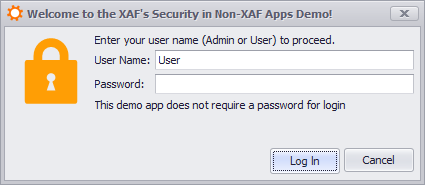
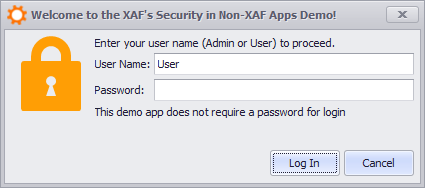
Update login form and image

diff --git a/WinForms/CS/LoginForm.Designer.cs b/WinForms/CS/LoginForm.Designer.cs
@@ -66,13 +66,12 @@
             // 
             // buttonLogin
             // 
-            this.buttonLogin.Appearance.Font = new System.Drawing.Font("Microsoft Sans Serif", 8.25F, System.Drawing.FontStyle.Regular, System.Drawing.GraphicsUnit.Point, ((byte)(0)));
-            this.buttonLogin.Appearance.Options.UseFont = true;
-            this.buttonLogin.Location = new System.Drawing.Point(265, 121);
-            this.buttonLogin.MaximumSize = new System.Drawing.Size(70, 26);
-            this.buttonLogin.MinimumSize = new System.Drawing.Size(70, 26);
+            this.buttonLogin.Location = new System.Drawing.Point(309, 149);
+            this.buttonLogin.Margin = new System.Windows.Forms.Padding(2);
+            this.buttonLogin.MaximumSize = new System.Drawing.Size(82, 32);
+            this.buttonLogin.MinimumSize = new System.Drawing.Size(82, 32);
             this.buttonLogin.Name = "buttonLogin";
-            this.buttonLogin.Size = new System.Drawing.Size(70, 26);
+            this.buttonLogin.Size = new System.Drawing.Size(82, 32);
             this.buttonLogin.StyleController = this.layoutControl1;
             this.buttonLogin.TabIndex = 0;
             this.buttonLogin.Text = "Log In";
@@ -88,21 +87,22 @@
             this.layoutControl1.Controls.Add(this.userNameEdit);
             this.layoutControl1.Dock = System.Windows.Forms.DockStyle.Fill;
             this.layoutControl1.Location = new System.Drawing.Point(0, 0);
+            this.layoutControl1.Margin = new System.Windows.Forms.Padding(3, 4, 3, 4);
             this.layoutControl1.Name = "layoutControl1";
             this.layoutControl1.OptionsCustomizationForm.DesignTimeCustomizationFormPositionAndSize = new System.Drawing.Rectangle(414, 240, 298, 800);
             this.layoutControl1.OptionsFocus.EnableAutoTabOrder = false;
             this.layoutControl1.Root = this.Root;
-            this.layoutControl1.Size = new System.Drawing.Size(415, 153);
+            this.layoutControl1.Size = new System.Drawing.Size(484, 188);
             this.layoutControl1.TabIndex = 5;
             this.layoutControl1.Text = "layoutControl1";
             // 
             // pictureEditImage
             // 
             this.pictureEditImage.EditValue = ((object)(resources.GetObject("pictureEditImage.EditValue")));
-            this.pictureEditImage.Location = new System.Drawing.Point(6, 6);
+            this.pictureEditImage.Location = new System.Drawing.Point(7, 7);
             this.pictureEditImage.Margin = new System.Windows.Forms.Padding(2);
-            this.pictureEditImage.MaximumSize = new System.Drawing.Size(80, 80);
-            this.pictureEditImage.MinimumSize = new System.Drawing.Size(80, 80);
+            this.pictureEditImage.MaximumSize = new System.Drawing.Size(93, 98);
+            this.pictureEditImage.MinimumSize = new System.Drawing.Size(93, 98);
             this.pictureEditImage.Name = "pictureEditImage";
             this.pictureEditImage.Properties.AllowFocused = false;
             this.pictureEditImage.Properties.Appearance.BackColor = System.Drawing.Color.Transparent;
@@ -110,19 +110,19 @@
             this.pictureEditImage.Properties.BorderStyle = DevExpress.XtraEditors.Controls.BorderStyles.NoBorder;
             this.pictureEditImage.Properties.ShowCameraMenuItem = DevExpress.XtraEditors.Controls.CameraMenuItemVisibility.Auto;
             this.pictureEditImage.Properties.ShowMenu = false;
-            this.pictureEditImage.Properties.SvgImageSize = new System.Drawing.Size(70, 70);
-            this.pictureEditImage.Size = new System.Drawing.Size(80, 80);
+            this.pictureEditImage.Properties.SvgImageSize = new System.Drawing.Size(64, 64);
+            this.pictureEditImage.Size = new System.Drawing.Size(93, 98);
             this.pictureEditImage.StyleController = this.layoutControl1;
             this.pictureEditImage.TabIndex = 7;
             // 
             // cancelButton
             // 
-            this.cancelButton.Location = new System.Drawing.Point(339, 121);
+            this.cancelButton.Location = new System.Drawing.Point(395, 149);
             this.cancelButton.Margin = new System.Windows.Forms.Padding(2);
-            this.cancelButton.MaximumSize = new System.Drawing.Size(70, 24);
-            this.cancelButton.MinimumSize = new System.Drawing.Size(70, 24);
+            this.cancelButton.MaximumSize = new System.Drawing.Size(82, 32);
+            this.cancelButton.MinimumSize = new System.Drawing.Size(82, 32);
             this.cancelButton.Name = "cancelButton";
-            this.cancelButton.Size = new System.Drawing.Size(70, 24);
+            this.cancelButton.Size = new System.Drawing.Size(82, 32);
             this.cancelButton.StyleController = this.layoutControl1;
             this.cancelButton.TabIndex = 1;
             this.cancelButton.Text = "Cancel";
@@ -130,19 +130,21 @@
             // 
             // passwordEdit
             // 
-            this.passwordEdit.Location = new System.Drawing.Point(150, 47);
+            this.passwordEdit.Location = new System.Drawing.Point(177, 53);
+            this.passwordEdit.Margin = new System.Windows.Forms.Padding(3, 4, 3, 4);
             this.passwordEdit.Name = "passwordEdit";
             this.passwordEdit.Properties.PasswordChar = '*';
-            this.passwordEdit.Size = new System.Drawing.Size(259, 20);
+            this.passwordEdit.Size = new System.Drawing.Size(300, 22);
             this.passwordEdit.StyleController = this.layoutControl1;
             this.passwordEdit.TabIndex = 3;
             // 
             // userNameEdit
             // 
             this.dxErrorProvider1.SetIconAlignment(this.userNameEdit, System.Windows.Forms.ErrorIconAlignment.MiddleRight);
-            this.userNameEdit.Location = new System.Drawing.Point(150, 23);
+            this.userNameEdit.Location = new System.Drawing.Point(177, 27);
+            this.userNameEdit.Margin = new System.Windows.Forms.Padding(3, 4, 3, 4);
             this.userNameEdit.Name = "userNameEdit";
-            this.userNameEdit.Size = new System.Drawing.Size(259, 20);
+            this.userNameEdit.Size = new System.Drawing.Size(300, 22);
             this.userNameEdit.StyleController = this.layoutControl1;
             this.userNameEdit.TabIndex = 2;
             this.userNameEdit.Validating += new System.ComponentModel.CancelEventHandler(this.UserNameEdit_Validating);
@@ -161,55 +163,55 @@
             this.layoutControlGroupButtons});
             this.Root.Name = "Root";
             this.Root.OptionsItemText.TextToControlDistance = 4;
-            this.Root.Padding = new DevExpress.XtraLayout.Utils.Padding(4, 4, 4, 4);
-            this.Root.Size = new System.Drawing.Size(415, 153);
+            this.Root.Padding = new DevExpress.XtraLayout.Utils.Padding(5, 5, 5, 5);
+            this.Root.Size = new System.Drawing.Size(484, 188);
             this.Root.TextVisible = false;
             // 
             // layoutControlItemUserName
             // 
             this.layoutControlItemUserName.Control = this.userNameEdit;
             this.layoutControlItemUserName.CustomizationFormText = "User Name";
-            this.layoutControlItemUserName.Location = new System.Drawing.Point(84, 17);
+            this.layoutControlItemUserName.Location = new System.Drawing.Point(97, 20);
             this.layoutControlItemUserName.Name = "layoutControlItemUserName";
-            this.layoutControlItemUserName.Size = new System.Drawing.Size(323, 24);
+            this.layoutControlItemUserName.Size = new System.Drawing.Size(377, 26);
             this.layoutControlItemUserName.Text = "User Name:";
-            this.layoutControlItemUserName.TextSize = new System.Drawing.Size(56, 13);
+            this.layoutControlItemUserName.TextSize = new System.Drawing.Size(68, 16);
             // 
             // layoutControlItemPassword
             // 
             this.layoutControlItemPassword.Control = this.passwordEdit;
-            this.layoutControlItemPassword.Location = new System.Drawing.Point(84, 41);
+            this.layoutControlItemPassword.Location = new System.Drawing.Point(97, 46);
             this.layoutControlItemPassword.Name = "layoutControlItemPassword";
-            this.layoutControlItemPassword.Size = new System.Drawing.Size(323, 24);
+            this.layoutControlItemPassword.Size = new System.Drawing.Size(377, 26);
             this.layoutControlItemPassword.Text = "Password:";
-            this.layoutControlItemPassword.TextSize = new System.Drawing.Size(56, 13);
+            this.layoutControlItemPassword.TextSize = new System.Drawing.Size(68, 16);
             // 
             // simpleLabelItem1
             // 
             this.simpleLabelItem1.AllowHotTrack = false;
-            this.simpleLabelItem1.Location = new System.Drawing.Point(84, 65);
+            this.simpleLabelItem1.Location = new System.Drawing.Point(97, 72);
             this.simpleLabelItem1.Name = "simpleLabelItem1";
-            this.simpleLabelItem1.Size = new System.Drawing.Size(323, 17);
+            this.simpleLabelItem1.Size = new System.Drawing.Size(377, 20);
             this.simpleLabelItem1.Text = "This demo app does not require a password for login";
             this.simpleLabelItem1.TextAlignMode = DevExpress.XtraLayout.TextAlignModeItem.AutoSize;
-            this.simpleLabelItem1.TextSize = new System.Drawing.Size(251, 13);
+            this.simpleLabelItem1.TextSize = new System.Drawing.Size(304, 16);
             // 
             // simpleLabelItem2
             // 
             this.simpleLabelItem2.AllowHotTrack = false;
-            this.simpleLabelItem2.Location = new System.Drawing.Point(84, 0);
+            this.simpleLabelItem2.Location = new System.Drawing.Point(97, 0);
             this.simpleLabelItem2.Name = "simpleLabelItem2";
-            this.simpleLabelItem2.Size = new System.Drawing.Size(323, 17);
+            this.simpleLabelItem2.Size = new System.Drawing.Size(377, 20);
             this.simpleLabelItem2.Text = "Enter your user name (Admin or User) to proceed.";
             this.simpleLabelItem2.TextAlignMode = DevExpress.XtraLayout.TextAlignModeItem.AutoSize;
-            this.simpleLabelItem2.TextSize = new System.Drawing.Size(241, 13);
+            this.simpleLabelItem2.TextSize = new System.Drawing.Size(289, 16);
             // 
             // emptySpaceItem2
             // 
             this.emptySpaceItem2.AllowHotTrack = false;
-            this.emptySpaceItem2.Location = new System.Drawing.Point(84, 82);
+            this.emptySpaceItem2.Location = new System.Drawing.Point(97, 92);
             this.emptySpaceItem2.Name = "emptySpaceItem2";
-            this.emptySpaceItem2.Size = new System.Drawing.Size(323, 10);
+            this.emptySpaceItem2.Size = new System.Drawing.Size(377, 10);
             this.emptySpaceItem2.TextSize = new System.Drawing.Size(0, 0);
             // 
             // layoutControlItemImage
@@ -217,7 +219,7 @@
             this.layoutControlItemImage.Control = this.pictureEditImage;
             this.layoutControlItemImage.Location = new System.Drawing.Point(0, 0);
             this.layoutControlItemImage.Name = "layoutControlItemImage";
-            this.layoutControlItemImage.Size = new System.Drawing.Size(84, 92);
+            this.layoutControlItemImage.Size = new System.Drawing.Size(97, 102);
             this.layoutControlItemImage.TextSize = new System.Drawing.Size(0, 0);
             this.layoutControlItemImage.TextVisible = false;
             // 
@@ -229,36 +231,36 @@
             this.layoutControlItemCancel,
             this.emptySpaceItem1,
             this.emptySpaceItem3});
-            this.layoutControlGroupButtons.Location = new System.Drawing.Point(0, 92);
+            this.layoutControlGroupButtons.Location = new System.Drawing.Point(0, 102);
             this.layoutControlGroupButtons.Name = "layoutControlGroupButtons";
             this.layoutControlGroupButtons.OptionsItemText.TextToControlDistance = 0;
-            this.layoutControlGroupButtons.Size = new System.Drawing.Size(407, 53);
+            this.layoutControlGroupButtons.Size = new System.Drawing.Size(474, 76);
             this.layoutControlGroupButtons.TextVisible = false;
             // 
             // layoutControlItemLogin
             // 
             this.layoutControlItemLogin.Control = this.buttonLogin;
-            this.layoutControlItemLogin.Location = new System.Drawing.Point(259, 23);
+            this.layoutControlItemLogin.Location = new System.Drawing.Point(302, 40);
             this.layoutControlItemLogin.Name = "layoutControlItemLogin";
-            this.layoutControlItemLogin.Size = new System.Drawing.Size(74, 30);
+            this.layoutControlItemLogin.Size = new System.Drawing.Size(86, 36);
             this.layoutControlItemLogin.TextSize = new System.Drawing.Size(0, 0);
             this.layoutControlItemLogin.TextVisible = false;
             // 
             // layoutControlItemCancel
             // 
             this.layoutControlItemCancel.Control = this.cancelButton;
-            this.layoutControlItemCancel.Location = new System.Drawing.Point(333, 23);
+            this.layoutControlItemCancel.Location = new System.Drawing.Point(388, 40);
             this.layoutControlItemCancel.Name = "layoutControlItemCancel";
-            this.layoutControlItemCancel.Size = new System.Drawing.Size(74, 30);
+            this.layoutControlItemCancel.Size = new System.Drawing.Size(86, 36);
             this.layoutControlItemCancel.TextSize = new System.Drawing.Size(0, 0);
             this.layoutControlItemCancel.TextVisible = false;
             // 
             // emptySpaceItem1
             // 
             this.emptySpaceItem1.AllowHotTrack = false;
-            this.emptySpaceItem1.Location = new System.Drawing.Point(0, 23);
+            this.emptySpaceItem1.Location = new System.Drawing.Point(0, 40);
             this.emptySpaceItem1.Name = "emptySpaceItem1";
-            this.emptySpaceItem1.Size = new System.Drawing.Size(259, 30);
+            this.emptySpaceItem1.Size = new System.Drawing.Size(302, 36);
             this.emptySpaceItem1.TextSize = new System.Drawing.Size(0, 0);
             // 
             // emptySpaceItem3
@@ -266,7 +268,7 @@
             this.emptySpaceItem3.AllowHotTrack = false;
             this.emptySpaceItem3.Location = new System.Drawing.Point(0, 0);
             this.emptySpaceItem3.Name = "emptySpaceItem3";
-            this.emptySpaceItem3.Size = new System.Drawing.Size(407, 23);
+            this.emptySpaceItem3.Size = new System.Drawing.Size(474, 40);
             this.emptySpaceItem3.TextSize = new System.Drawing.Size(0, 0);
             // 
             // dxErrorProvider1
@@ -276,12 +278,13 @@
             // LoginForm
             // 
             this.AcceptButton = this.buttonLogin;
-            this.AutoScaleDimensions = new System.Drawing.SizeF(6F, 13F);
+            this.AutoScaleDimensions = new System.Drawing.SizeF(7F, 16F);
             this.AutoScaleMode = System.Windows.Forms.AutoScaleMode.Font;
-            this.ClientSize = new System.Drawing.Size(415, 153);
+            this.ClientSize = new System.Drawing.Size(484, 188);
             this.Controls.Add(this.layoutControl1);
             this.FormBorderStyle = System.Windows.Forms.FormBorderStyle.FixedDialog;
             this.Icon = global::WindowsFormsApplication.Properties.Resources.ExpressApp;
+            this.Margin = new System.Windows.Forms.Padding(3, 4, 3, 4);
             this.MaximizeBox = false;
             this.MinimizeBox = false;
             this.Name = "LoginForm";
